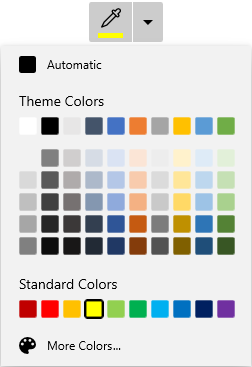
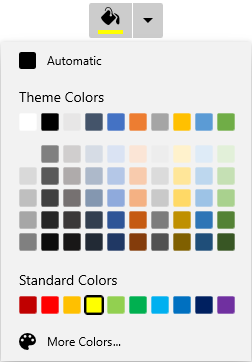
WINUI-210-DropDownColorPalette

diff --git a/winui/Drop-Down-Color-Palette/Getting-Started.md b/winui/Drop-Down-Color-Palette/Getting-Started.md
@@ -33,7 +33,7 @@ This section explains the steps required to add the [DropDownColorPalette](https
 
 ![Dropdown ColorPalette more color dialog structure](Getting-Started_images/MoreColorControl_Structure_GS.jpg)
 
-## Creating an application with WinUI DropDownColorPalette
+## Creating an application with WinUI DropDown ColorPalette
 
 1. Create a simple project using the instructions given in the [Getting Started with your first WinUI app](https://docs.microsoft.com/en-us/windows/apps/winui/winui3/get-started-winui3-for-uwp) documentation.
 
@@ -84,7 +84,7 @@ namespace GettingStarted
 {% endhighlight %}
 {% endtabs %}
 
-![ColorPalette added in the winui application](Getting-Started_images/controladded.png)
+![Dropdown ColorPalette added in the winui application](Getting-Started_images/controladded.png)
 
 ## Accessing a Color programmatically
 
@@ -238,13 +238,13 @@ public sealed partial class MainPage : Page
 
 ![Dropdown color palette recent color selected in split mode](Getting-Started_images/Splitbutton.gif)
 
-## Custom Color Palette
+## Customize the ColorPalette
 
-You can embed the [ColorPalette](https://help.syncfusion.com/cr/winUI/Syncfusion.UI.Xaml.Editors.SfColorPalette.html) control inside the drop down color palette by using the [DropDownContentTemplate](https://help.syncfusion.com/cr/winUI/Syncfusion.UI.Xaml.Editors.SfDropDownBase.html#Syncfusion_UI_Xaml_Editors_SfDropDownBase_DropDownContentTemplate) property. You can change the theme and standard colors and customize its panels, etc, based on your requirements.
+You can customize the color palette by replacing the default [ColorPalette](https://help.syncfusion.com/cr/winUI/Syncfusion.UI.Xaml.Editors.SfColorPalette.html) with your own instance using [DropDownContentTemplate](https://help.syncfusion.com/cr/winUI/Syncfusion.UI.Xaml.Editors.SfDropDownBase.html#Syncfusion_UI_Xaml_Editors_SfDropDownBase_DropDownContentTemplate) property.
 
 N> The `DataContext` of `DropDownContentTemplate` property is [SfDropDownColorPalette.DropDownContent](https://help.syncfusion.com/cr/winUI/Syncfusion.UI.Xaml.Editors.SfDropDownBase.html#Syncfusion_UI_Xaml_Editors_SfDropDownBase_DropDownContent).
 
-N> You can refer the [ColorPalette](https://help.syncfusion.com/winui/color-palette/overview) documentation page to know more about all customization available for the `ColorPalette` control.
+N> You can refer the [ColorPalette](https://help.syncfusion.com/winui/color-palette/overview) documentation page to know more about all customization available in the `ColorPalette` control.
 
 {% tabs %}
 {% highlight xaml %}
@@ -338,7 +338,7 @@ N> The `DropDownButtonTemplate` is effective only on when drop down mode is spli
         <DataTemplate>
             <StackPanel Height="30" 
                         Orientation="Vertical">
-                <Path Data="M19.551687,9.4412649L5.7859255,23.232995 3.1009826,28.505029 8.8409869,26.226037 22.573929,12.468039 22.138519,12.03162z M27.786037,2.0999956C27.232677,2.0999961,26.679191,2.3019958,26.275703,2.7059948L22.546806,6.4419879 20.686857,4.5799915C20.483862,4.3769917 20.213869,4.264992 19.926878,4.2649922 19.638885,4.264992 19.368892,4.3769917 19.163898,4.5809914 18.74391,5.0019907 18.74391,5.6889894 19.165899,6.1109889L19.552171,6.4977872 19.552927,6.4970304 22.776479,9.726485 25.902713,12.856976C26.105709,13.060976 26.375702,13.173975 26.662693,13.173975 26.949686,13.173975 27.221677,13.060976 27.424673,12.856976 27.845661,12.435977 27.845661,11.749978 27.424673,11.328979L27.424673,11.327979 25.567722,9.4689825 29.295622,5.7349892C30.129598,4.9009908 30.129598,3.5419934 29.295622,2.7059948 28.892631,2.3019958 28.339397,2.0999961 27.786037,2.0999956z M27.785661,0C28.911632,0 29.970602,0.4399991 30.76758,1.2379975 32.409534,2.8819947 32.409534,5.5589896 30.76758,7.2049866L28.506643,9.4689825 28.896631,9.8599815C30.126598,11.09098 30.126598,13.095976 28.896631,14.327973 28.299648,14.924973 27.50667,15.253972 26.662693,15.253972L26.661693,15.253972C25.818716,15.253972,25.025737,14.924973,24.429754,14.325974L24.044054,13.939747 10.008959,28.001 1.5649682,31.352014C1.4289816,31.40603 1.2868914,31.432031 1.1458999,31.432031 0.82888244,31.432031 0.51687,31.300988 0.29689856,31.059045 -0.021095165,30.709008 -0.091041619,30.191003 0.12294829,29.770043L4.197909,21.881004 18.082576,7.9701535 17.692939,7.579986C16.464973,6.3479882 16.464973,4.3429918 17.692939,3.1109939 18.888906,1.9149966 20.965849,1.9179964 22.159816,3.1099939L22.546806,3.4989934 24.803743,1.2379975C25.600723,0.4399991,26.659692,0,27.785661,0z" 
+                <Path Data="M22.078048,10.524087C22.078048,10.524087,31.99999,12.1271,31.99999,19.644161L31.99999,27.061223C31.99999,33.475275 25.987026,29.266241 25.987026,25.55721 25.987026,20.64617 30.397001,18.842155 28.392012,16.838139z M12.757101,0C17.367075,0,20.073059,6.5150537,20.174059,11.325093L20.174059,11.626096 20.374058,11.826097C22.178047,13.631112 24.483034,15.936131 25.28503,16.737138 26.588022,18.040148 25.686028,19.544161 25.18503,20.045165 24.583034,20.64617 14.160093,31.070255 14.160093,31.070255 12.9571,32.272265 8.9481231,30.067247 5.1401448,26.259216 1.3311667,22.450185 -0.8738203,18.341151 0.32917213,17.239142L11.354109,6.2140512C11.354109,6.2140512 12.055105,5.5120449 13.0581,5.5120449 13.559097,5.5120449 14.160093,5.713047 14.76109,6.3140526L15.964083,7.6170626C16.666079,9.8220806 16.165082,11.626096 15.864083,12.528103 15.263087,12.929107 14.862089,13.631112 14.862089,14.332118 14.862089,15.535128 15.864083,16.537136 17.067077,16.537136 18.26907,16.537136 19.272064,15.535128 19.272064,14.332118 19.272064,13.530111 18.871066,12.929107 18.26907,12.528103 18.37007,12.027099 18.37007,11.025091 18.16907,9.7220802 18.16907,9.7220802 18.37007,9.9220819 18.770067,10.323085L18.770067,10.123083C18.26907,6.0130501 15.964083,1.3030109 12.657102,1.3030109 8.6481248,1.3030109 7.7461299,5.4120445 7.74613,6.9150572L6.5431371,6.9150572C6.5431368,4.2090359,8.2471271,0,12.757101,0z" 
                       Stretch="Uniform"
                       Fill="Black" 
                       Width="20" Height="20" 
